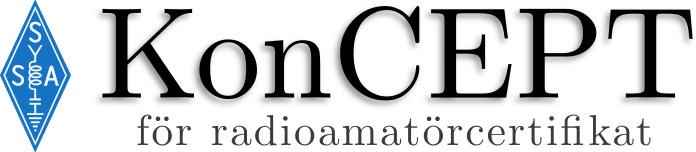
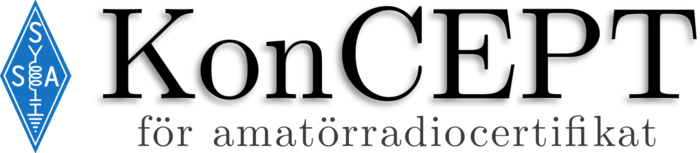
Uppdaterade README.md logon till SSA-Akademin och ändrade till 'amatörradiocertifikat'

diff --git a/README.md b/README.md
@@ -1,4 +1,4 @@
-![KonCEPT för radioamatörcertifikat](koncept.png)
+![SSA-Akademin](ssa-akademin.png)
 
 -   [LADDA NER OCH BYGG PROJEKTET](#ladda-ner-och-bygg-projektet)
 -   [BIDRA TILL PROJEKTET](#bidra-till-projektet)
@@ -40,7 +40,7 @@ Det finns dock gott om innehåll att granska och komma med förbättringsförsla
 på.
 
 **Hämta hem den senaste versionen:**
-**[koncept.pdf](http://ssaakademin.fn42.se/koncept-pdf/)**
+**[koncept.pdf](http://ssaakademin.fn42.se/)**
 
 
 BIDRA TILL PROJEKTET
